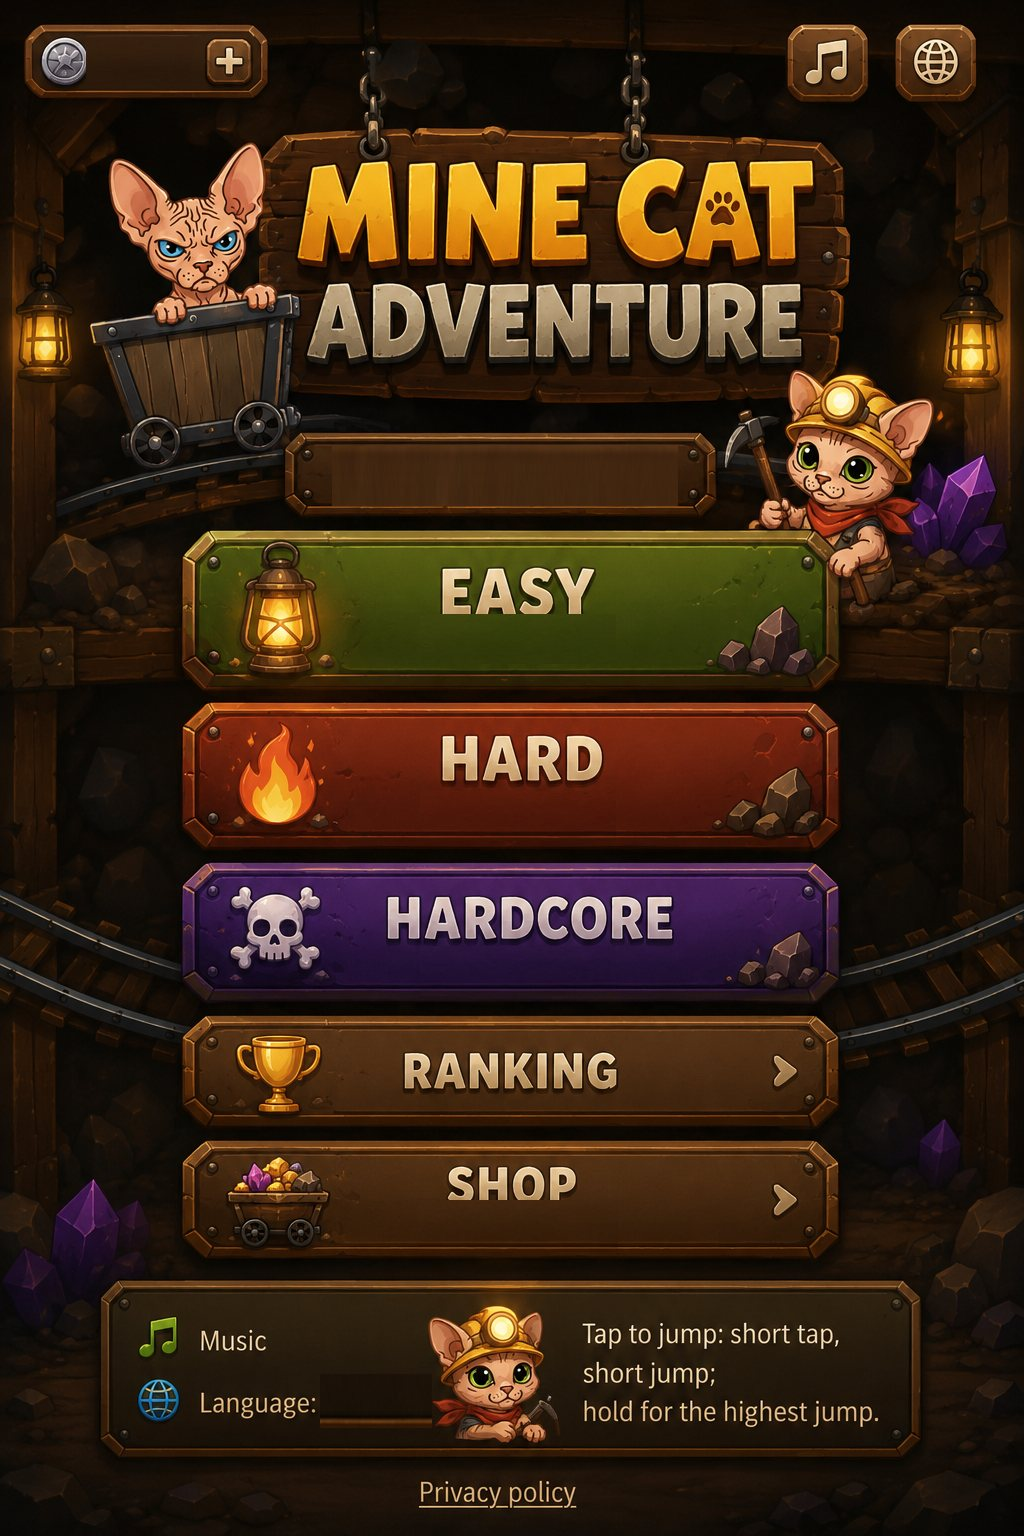
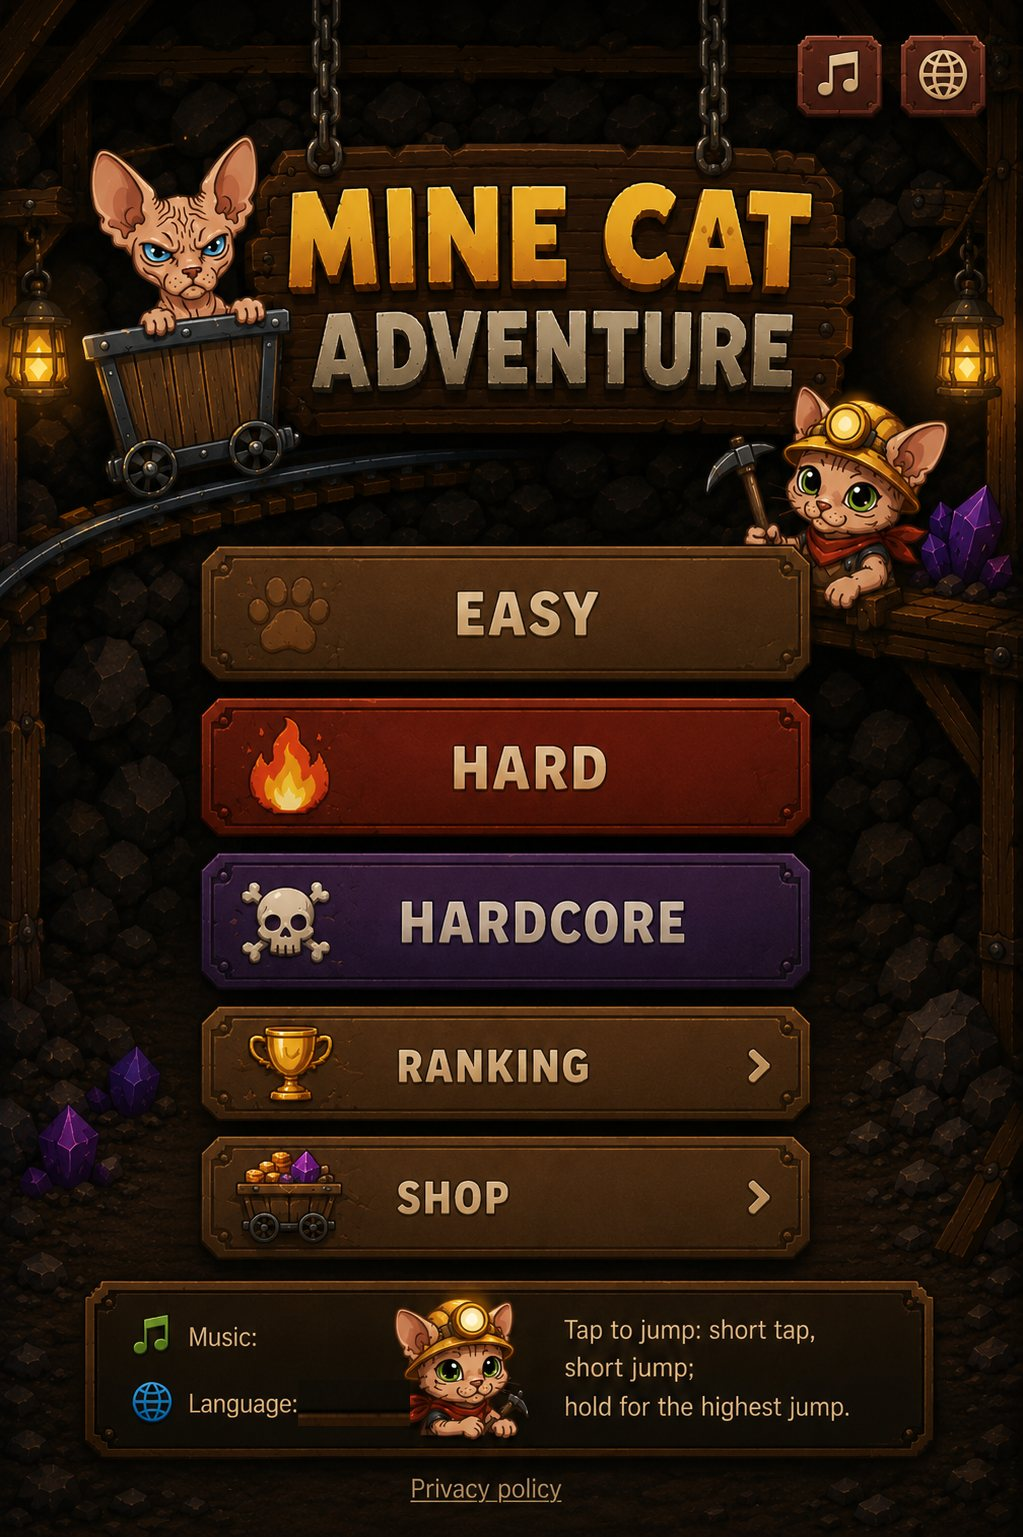
feat: menu actualizado al arte "nuevo diseno menu"
- img/menu-bg.jpg regenerado desde el nuevo arte (sin insignia de
  monedas ni pill de jugador pintadas; se limpian "ON" y "English"
  del panel inferior por clonacion de textura).
- Los elementos que el arte nuevo no trae se superponen como HTML
  con estilo acorde (madera oscura, borde cafe, dorado, tamanos en
  cqw): insignia de monedas con boton "+" (recompensa por anuncio,
  arriba a la izquierda), pastilla "Minero: nombre cambiar" entre el
  letrero y EASY, y records por dificultad como subtitulo dentro de
  cada boton pintado.
- Hotspots y textos dinamicos reposicionados a las coordenadas del
  nuevo arte (botones mas angostos y panel inferior mas alto).
- Aviso de invitado reubicado arriba (la zona media ahora la ocupa
  la pastilla del jugador).
- sw.js: CACHE_VERSION v21.

Verificado en movil (375x812): alineacion de hotspots superpuesta
sobre la imagen, replica del render final con datos reales, clicks
de +/musica/idioma/EASY y consola limpia.

diff --git a/index.html b/index.html
@@ -36,34 +36,36 @@
   <!-- El menú es la ilustración completa (img/menu-bg.jpg, con los
        botones pintados en el arte). Encima van zonas táctiles
        invisibles (.hot) alineadas con cada botón pintado y textos
-       dinámicos (.menu-dyn) sobre las zonas que se limpiaron en la
-       imagen: saldo, nombre, récords, monedas de la tienda, estado de
-       música e idioma. Posiciones en % de la imagen (1024x1536). -->
+       dinámicos (.menu-dyn). El arte no trae insignia de monedas ni
+       nombre del jugador ni récords: esos son elementos HTML propios
+       (.coin-pill2, .player-pill, spans de récord) superpuestos con
+       estilo acorde. Posiciones en % de la imagen (1023x1537). -->
   <div id="menu" class="overlay menu-screen hidden">
     <div class="menu-art">
-      <button id="btn-add-coins" class="hot" style="left:2.9%;top:1.8%;width:21.5%;height:4.6%"></button>
-      <button id="btn-music" class="hot" style="left:76.9%;top:1.8%;width:7.3%;height:4.6%"></button>
-      <button id="btn-lang" class="hot" style="left:87.7%;top:1.7%;width:7.3%;height:4.8%"></button>
-      <button id="btn-logout" class="hot" style="left:27.8%;top:28.5%;width:41.5%;height:4.9%"></button>
-      <button id="btn-normal" class="hot" style="left:18%;top:34.2%;width:63.5%;height:10.8%"></button>
-      <button id="btn-hard" class="hot" style="left:18%;top:45.6%;width:63.5%;height:10.4%"></button>
-      <button id="btn-hardcore" class="hot" style="left:18%;top:56.3%;width:63.5%;height:9.2%"></button>
-      <button id="btn-ranking" class="hot" style="left:18%;top:66.1%;width:63.5%;height:6.2%"></button>
-      <button id="btn-shop" class="hot" style="left:18%;top:73.2%;width:63.5%;height:8.8%"></button>
-      <button id="btn-music-2" class="hot" style="left:11.7%;top:85.3%;width:26.5%;height:3.8%"></button>
-      <button id="btn-lang-2" class="hot" style="left:11.7%;top:89.3%;width:37%;height:3.9%"></button>
-      <a class="hot" href="privacy.html" style="left:39%;top:95.6%;width:22%;height:3%"></a>
+      <button id="btn-music" class="hot" style="left:78.2%;top:1.9%;width:7.8%;height:4.9%"></button>
+      <button id="btn-lang" class="hot" style="left:88%;top:1.9%;width:7.8%;height:4.9%"></button>
+      <button id="btn-normal" class="hot" style="left:20%;top:36.1%;width:59.2%;height:8.2%"></button>
+      <button id="btn-hard" class="hot" style="left:20%;top:45.9%;width:59.2%;height:8.5%"></button>
+      <button id="btn-hardcore" class="hot" style="left:20%;top:55.6%;width:59.2%;height:8.5%"></button>
+      <button id="btn-ranking" class="hot" style="left:20%;top:65.7%;width:59.2%;height:6.9%"></button>
+      <button id="btn-shop" class="hot" style="left:20%;top:74.2%;width:59.2%;height:7.2%"></button>
+      <button id="btn-music-2" class="hot" style="left:11.7%;top:85.2%;width:20.5%;height:3.6%"></button>
+      <button id="btn-lang-2" class="hot" style="left:11.7%;top:89.4%;width:31%;height:3.5%"></button>
+      <a class="hot" href="privacy.html" style="left:38.6%;top:95.5%;width:17.6%;height:3%"></a>
 
-      <span id="menu-coin-balance" class="menu-dyn gold" style="left:8.4%;top:2.3%;width:8%;height:3.7%;font-size:3.6cqw"></span>
-      <span id="menu-player" class="menu-dyn" style="left:29%;top:28.5%;width:39%;height:4.9%;font-size:3.1cqw">
+      <button id="btn-add-coins" class="coin-pill2" style="left:2.5%;top:2.1%;height:4.7%">
+        <span>🪙</span><span id="menu-coin-balance">0</span><span class="plus">+</span>
+      </button>
+      <button id="btn-logout" class="player-pill" style="left:27%;top:32.7%;width:46%;height:3.2%">
         <span data-i18n="playerPrefix">Minero:</span>&nbsp;<strong id="player-name"></strong>&nbsp;<u data-i18n="change">cambiar</u>
-      </span>
-      <span id="best-normal" class="menu-dyn" style="left:31%;top:40%;width:38%;height:3%;font-size:3.1cqw"></span>
-      <span id="best-hard" class="menu-dyn" style="left:31%;top:51.5%;width:38%;height:3%;font-size:3.1cqw"></span>
-      <span id="best-hardcore" class="menu-dyn" style="left:31%;top:61.6%;width:38%;height:3%;font-size:3.1cqw"></span>
-      <span id="menu-coins" class="menu-dyn gold" style="left:31%;top:78.2%;width:38%;height:3%;font-size:3.1cqw"></span>
-      <span id="music-state" class="menu-dyn start green" style="left:26.4%;top:85.7%;width:12%;height:3%;font-size:2.8cqw"></span>
-      <span id="lang-state" class="menu-dyn start blue" style="left:31.2%;top:89.8%;width:22%;height:3%;font-size:2.8cqw"></span>
+      </button>
+
+      <span id="best-normal" class="menu-dyn" style="left:20%;top:41.9%;width:59.2%;height:2.3%;font-size:2.6cqw"></span>
+      <span id="best-hard" class="menu-dyn" style="left:20%;top:51.7%;width:59.2%;height:2.3%;font-size:2.6cqw"></span>
+      <span id="best-hardcore" class="menu-dyn" style="left:20%;top:61.5%;width:59.2%;height:2.3%;font-size:2.6cqw"></span>
+      <span id="menu-coins" class="menu-dyn gold" style="left:20%;top:79.6%;width:59.2%;height:2%;font-size:2.4cqw"></span>
+      <span id="music-state" class="menu-dyn start green" style="left:25.4%;top:85.6%;width:12%;height:2.7%;font-size:2.8cqw"></span>
+      <span id="lang-state" class="menu-dyn start blue" style="left:29.6%;top:89.7%;width:20%;height:2.7%;font-size:2.8cqw"></span>
 
       <p id="guest-notice" class="guest-notice hidden">
         <span data-i18n="guestNotice">🎮 Invitado: tu progreso puede perderse.</span>

diff --git a/css/style.css b/css/style.css
@@ -142,16 +142,72 @@ body {
   text-decoration: underline;
 }
 
-#menu-player u {
+/* Insignia de monedas y pastilla del jugador: el arte del menú no las
+   trae, así que son elementos HTML con estilo acorde (madera oscura,
+   borde café, texto dorado) dimensionados en cqw para escalar con la
+   ilustración. */
+.coin-pill2 {
+  position: absolute;
+  display: flex;
+  align-items: center;
+  gap: 1.3cqw;
+  padding: 0 2.2cqw;
+  border-radius: 999px;
+  background: rgba(26, 15, 7, 0.88);
+  border: 0.4cqw solid #6b4a26;
+  color: #ffd76a;
+  font-size: 3.2cqw;
+  font-weight: 800;
+  font-family: inherit;
+  pointer-events: auto;
+  cursor: pointer;
+  box-shadow: 0 0.4cqw 1cqw rgba(0, 0, 0, 0.65);
+}
+
+.coin-pill2 .plus {
+  display: flex;
+  align-items: center;
+  justify-content: center;
+  width: 1.35em;
+  height: 1.35em;
+  border-radius: 50%;
+  background: rgba(255, 215, 106, 0.16);
+  border: 1px solid rgba(255, 215, 106, 0.55);
+  font-size: 0.9em;
+  font-weight: 900;
+}
+
+.player-pill {
+  position: absolute;
+  display: flex;
+  align-items: center;
+  justify-content: center;
+  border-radius: 2cqw;
+  background: rgba(26, 15, 7, 0.82);
+  border: 0.3cqw solid rgba(122, 74, 18, 0.9);
+  color: #e8c9a0;
+  font-size: 2.8cqw;
+  font-weight: 700;
+  font-family: inherit;
+  white-space: nowrap;
+  pointer-events: auto;
+  cursor: pointer;
+}
+
+.player-pill strong {
+  color: #ffd76a;
+}
+
+.player-pill u {
   color: #cbb391;
-  font-size: 0.8em;
+  font-size: 0.82em;
 }
 
 #menu .guest-notice {
   position: absolute;
   left: 8%;
   right: 8%;
-  top: 33.6%;
+  top: 7.4%;
   z-index: 3;
   padding: 1.4cqw 2cqw;
   border-radius: 2cqw;

diff --git a/sw.js b/sw.js
@@ -3,7 +3,7 @@
 // Service worker: estrategia red-primero con respaldo en caché.
 // Online siempre sirve la última versión; offline sirve la copia
 // guardada. Sube CACHE_VERSION al publicar cambios importantes.
-const CACHE_VERSION = 'mca-v20';
+const CACHE_VERSION = 'mca-v21';
 
 const ASSETS = [
   './',
